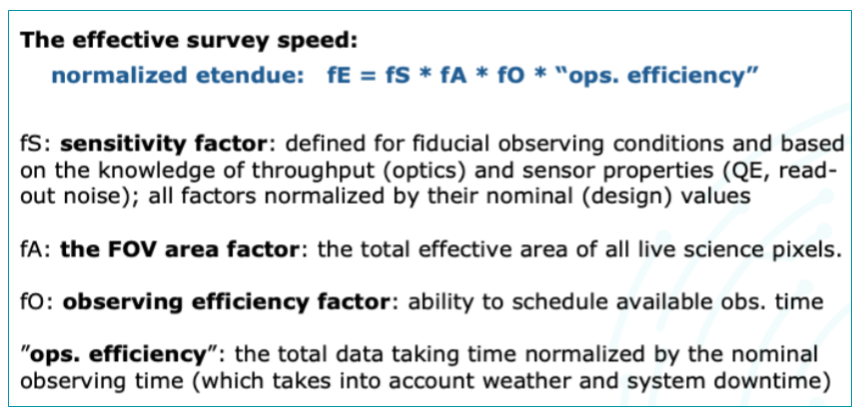
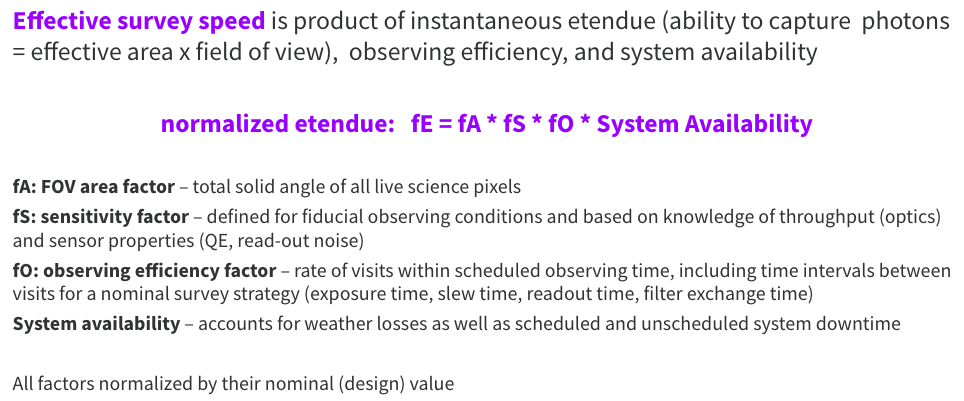
First 2.0 draft with significantly revised criteria to start LSST

diff --git a/criteria.tex b/criteria.tex
@@ -11,32 +11,64 @@ The Operations team discussed an initial set of criteria with the Science Adviso
 \small
 \centering
 \caption{Survey Start Criteria}\label{tab:criteria}
-\begin{tabular}{|p{1in}|p{4in}|p{1.0in}|}
+\begin{tabular}{|p{0.25in}|p{1in}|p{4in}|p{1.0in}|}
 \hline
-Criterium & Description& Status \\
+Item & Criterion & Description& Status \\
 \hline \hline
 
-\makecell[l]{LSSTCam\\ Maintenance} & Before the completion of SV, it is understood whether or not off TMA Camera maintenance will be needed within the first year of Operations.& TBC \\\hline  
-SRD &All science requirements that can be verified with SV data are verified or expected to be verified within 3 months of completion of SV. & TBC \\\hline
-IQ& Image quality contribution of system is better than 0.7’’. & \makecell[l]{TBC, \\preliminary \\result \\ComCam <0.4$''$}\\\hline
-Speed & Survey speed as measured on SV is > 0.5. & TBC, ComCam promising\\\hline
-\makecell[l]{Improve\\ performance} & Both IQ and speed are understood with clear paths to improvement (as needed) that can be done in parallel with on going observing.& TBC \\\hline
-Dome & The dome environment is under control at night. & TBC\\\hline
-Cadence& The first six months of survey schedule includes details of the system as currently performing.& in progress\\\hline
-Fit & Team is rested and fit. & TBC\\\hline
-Early Science&DP2 observations are completed as planned \citep{RTN-011}.& TBC \\
+1 & \makecell[l]{LSSTCam\\ Maintenance} & Before the completion of SV, it is understood whether or not off TMA Camera maintenance will be needed within the first year of Operations.& No off TMA maintenance required.  \\\hline  
+
+2 & SRD &All science requirements that can be verified with SV data are verified or expected to be verified within 3 months of completion of SV. & Status at CCR3 \\\hline
+
+3 & Dome & The dome environment is not limiting typical performance. &\makecell[l]{ Not controlled \\until after \\Handover} \\\hline
+
+4 & Calibration & All necessary calibration data products are available at the time any LSST data are obtained or can be obtained after the fact without invalidating the observed data for inclusion in the LSST. & Status at CCR3 \\\hline
+
+5& DIQ& Delivered Image quality contribution of system is better than or equal to 0.4$\arcsec$ & \makecell[l]{Currently 0.6$\arcsec$ \\system \\contribution}\\\hline
+
+6 & Normalized \'{E}tendue & Survey speed  is $>$ 0.7. & Currently 0.68 \\\hline
+
+7 & Cadence & The first six months of survey schedule as expected to be executed includes details of the system as currently performing.& In progress\\\hline
+
+8 & Early Science&DP2 observations are completed as planned \citep{RTN-011}.& Status at CCR3 \\
 
 \hline
 \end{tabular}
 \end{table}
 
-These criteria are not comprehensive with respect to LSST success. They are intended only to guide the confident commencement of the survey. We emphasize that the initial boundary condition is a successful completion of the construction project. This means the construction completeness reviews have been successfully completed and NSF and DOE have accepted the system as the one they intended to build.
+These criteria are not comprehensive with respect to LSST success. They are intended only to guide the confident commencement of the survey. The initial boundary condition is a successful completion of the construction project. This means the construction completeness reviews have been successfully completed and NSF and DOE have accepted the system as the one they intended to build.
 
-With this in mind, the most important criterion is that the system can efficiently take data. Figure~\ref{speed} shows where efficiency will be key in making progress on the survey. Beginning the scheduled observations no sooner that the system can run at 50$\%$ effective speed and with image quality (system contribution) below 0.7$''$ is acceptable as long as a clear path to improved performance exists. We assume the path to improvement will arrive at nominal effectiveness (1.0, 0.35$''$) within 6 months of the start of survey. Indeed, the ComCam campaign in Q1 FY24 showed the system contribution to image quality is likely as good 0.4$''$ already without full control over the in$-$dome environment \citep[See][ section 2.2]{SITCOMTN-149}.
+The criteria cover a range of contexts. Most look to be well in hand based on what we know about commissioning progress and what has been reported at CCR2/ORR1. Item 1 is already met. We do not expect to have to remove the camera for maintenance before we begin the survey. Item 2 is needed to ensure some key aspects of the system don't need verification before we embark on the LSST. Some long term SRD requirements need a significant amount of data to finally validate. But we can be assured data being taken are going to be valid for the LSST if the requirements that can be validated with SV data have been. This will be confirmed at CCR3. The calibration system (item 4)  is in the advanced stages of validation. By CCR3, we can be assured no outstanding calibration needs will limit the taking of images for the LSST. For item 7, we are already folding in as delivered performance into the survey simulations. We can be confident the remaining performance status can be adapted into the initial LSST cadence by the time we are ready to start. Once SV data taking is complete, we will know the content of DP2 (item 8) and be able to decide whether or not any augmentation is critical for community preparation before data release 1 \citep[DR1; see][]{RTN-011}. 
 
-The choice of when to begin the survey based on the effective survey speed (\ref{speed}) is subjective. We choose 50$\%$ as the point where accumulating survey data while working on performance improvement is most productive for the use of nighttime hours. This is with the proviso that clear paths to performance improvement are well understood.
+This leaves the "big 3," the dome environment, system contribution to DIQ, and Normalized \'{E}tendue. These are discussed next in more detail.
 
-In order that the data taken are of the highest quality possible in this context, the dome environment should be controllable to the extent dome seeing is significantly impacting the delivered IQ. The survey schedule should be updated with the current performance for the first six month period.
+\subsection{Dome Environmental Control}
+The dome is the last major subsystem to be completed. Indeed it will not be done until mid 2026. The critical aspects that are needed are to install, provide control for, and optimize the actuators for the dome louvers. There are 40 louvers, and some large fraction need to be operable (open at fractions consistent with telemetry in real time for temperatures and wind). The first actuators are installed now and may be operable before the shutdown. Still more will need to be brought on line after the handover. If the louvers limit us to worse than typical min SRD performance, we won't be able to start the LSST until they are largely deployed and in routine operation. 
 
-Finally, the community should have a significant data set to analyze while year one data are being obtained. So, the DP2 data taking should be complete and moving toward release. 
+There are large ducts that will provide for air distribution via the main air handlers inside the facility. This system should improve our ability to maintain the enclosure at closer to the required nighttime temperature during the day time. Hitting the right temperature in the environment around the telescope is critical to good IQ during the night. The ducts are necessary but not sufficient. We will also need to gain experience in forecasting the coming night's temperature to be able to use the air conditioning effectively (i.e. to set the system to hit the right target). 
 
+Further use of available temperature sensors on the telescope and in the dome will help on going analyses aimed at improving the AOS and thermal control of the optics in real time. 
+
+The total contribution to DIQ from the dome environment is modest. Including all sources of turbulence generated by the facility, the budget to contribute to the DIQ is only 0.09$\arcsec$. Clearly all systems for controlling these contributions need to be working well and reliably. The observatory will need to rely on the ability to characterize parts of the DIQ coming from this environment. Thus we will prioritize reliable operation and calibration of our DIMM, in-dome seeing monitors, as well as the atmospheric profiler on Cerro Pach\'{on}, RINGSS.  
+
+\subsection{Normalized \'{E}tendue.}
+Much of the system availability is already demonstrated to be sufficient to start the LSST, The field of view factor, fA, is excellent and stable. The sensitivity factor, fS, is also very good. This factor has the potential to help overall performance because of its dependence on delivered image quality. Getting the system contribution from 0.6 to 0.4 (coupled with site atmospheric seeing of 0.7$\arcsec$) would raise fS from 0.94 to 1.3. Apart from this, all the optics are delivered as is the focal plane. The performance of all these components is excellent and can be maintained. The observing efficiency or fO is also in good shape. The telescope dynamic performance (slew speed, acceleration, and jerk) is sufficient for the LSST planned cadence. 
+
+The TMA currently can move faster than we operate it due to the need to improve the control of dynamic loads on the glass via force actuators. However the current performance with glass is captured in the scheduler simulator and is only a modest hit to LSST. We will continue to work on improved dynamic control even as we operate for LSST. Slew and settle performance are well understood and adequate. Modest gains on fO are forecast for the rest of SV and early operations. We expect the current value to go from 0.97 to 1.05. 
+
+This leaves the System Availability, Current performance of 0.75 needs to be improved. Doing only science like observations we have reached 85$\%$ at times. We need to continue to improve on procedures and reliability of systems throughout the summit facility as we go forward. This means training for faster troubleshooting and fault recovery, making communications on the telescope system bus more reliable, improving reliability of telescope, dome, and camera functions. These have all seen marked progress as expected though out system integration, test, and commissioning. The System Availability still needs to be $\gtrsim$ 0.7 or so, a soft requirement, if the DIQ is typically delivered with 0.4$\arcsec$ contribution from the system. 
+
+The minimum Normalized \'{E}tendue is 0.7$\arcsec$ in the SRD. This level is nearly in hand. We will start the LSST consistent with this, however, the actual value will be better given the dependence on DIQ discussed next. 
+
+\subsection{DIQ}
+
+The single most important gain needed to get to the LSST start is clearly the typical DIQ. We will not start the LSST until this sustained performance reflects a system contribution of $\le$ 0.4$\arcsec$. This requires continued effort on the control of optics and the dome environment. Putting this together with the criteria above results in the region of the performance diagram we can use to gate starting the LSST as depicted in Figure~\ref{speed3}. 
+
+\begin{figure}[t]
+  \centering
+\includegraphics[width=0.85\linewidth]{speed3.png}
+\caption{Image quality versus effective survey speed or Normalized \'{E}tendue. The large orange rectangle represents the region in this space within which we can confidently start the LSST.}
+\label{speed3}
+\end{figure}
+
+\newpage

diff --git a/speed.tex b/speed.tex
@@ -1,30 +1,65 @@
 \section{System Performance}{\label{secSysperf}}
   
-Handover means that the system will have passed the NSF and DOE close out review. The as delivered system will be capable of delivering images that satisfy the science requirements as defined in SRD (\cite{LPM-17}). Following the final phase of commissioning which will include science validation (SV) observations, the state of the system will be assessed and the readiness of the system and team to begin the survey will be made. 
+Handover means that the system will have passed the NSF and DOE close out review. The as delivered system will be {\it capable} of delivering images that satisfy the science requirements as defined in SRD (\cite{LPM-17}). Following the final phase of commissioning which will include science validation (SV) observations, the state of the system will be assessed and the readiness of the system and team to begin the survey will be made. Further optimization by the Operations team will be planned as needed to ensure the system performs {\it reliably} at the needed level of capability. 
 
 Rubin has developed a high level metric to summarize the system performance with respect to survey efficiency. We need to ensure both that the system is producing science capable images and data products and that the observing is efficient. 
-If the site and system are producing appropriate image quality and the system and team are acquiring data efficiently coming out of SV, we can confidently start the LSST. In Figure~\ref{fE}, we show the system contribution to image quality (and atmospheric contribution) versus the dimensionless survey efficiency or ``speed,'' fE. 
+If the site and system are producing appropriate image quality and the system and team are acquiring data efficiently, we can confidently start the LSST. In Figure~\ref{fE}, we show the system contribution to image quality (and atmospheric contribution) versus the dimensionless survey efficiency or speed, fE. 
 
 \begin{figure}%[!ht]
   \centering
 \includegraphics[width=0.75\linewidth]{fE.png}
-\caption{Dimensionless survey efficiency factor, fE. Only ops efficiency is not known precisely at this time by data or design. The ComCam run will allow a specific determination of fE as we roll into LSSTCam commissioning. fE will be fully updated by as built system performance and ops. efficiency by the end of science validation.}
+\caption{Dimensionless survey efficiency factor, fE. System Availability is the most uncertain at this time. The current state of each factor is discussed below and the quantitative criteria for starting the LSST with respect to each factor is assessed.}
 \label{fE}
 \end{figure}
 
-All f factors are dimensionless and normalized by the corresponding SRD design values. They can be “traded against each other” as “time”.
-For example, deterioration in the mirror reflectivity can be easily translated to factor fS, and traded against time (e.g. time lost to recoating, the system “efficiency”), or against loss of sensor area (fA).
-The key point is that it is possible to define a simple measurable quantity (fE) that is an excellent numerical approximation for “LSST science goals”. Thus, we can think of the effective speed of executing the LSST (in units of the nominal speed) in terms of recognizable elements: fE ~ ”eff area” * “eff FOV” * “cadence” * “downtime”
+All f factors are dimensionless and normalized by the corresponding SRD design values. They can be traded against each other as time.
+For example, deterioration in the mirror reflectivity can be easily translated to factor fS, and traded against time (e.g. time lost to recoating, the system efficiency), or against loss of sensor area (fA).
+The key point is that it is possible to define a simple measurable quantity (fE) that is an excellent numerical approximation for LSST science goals. Thus, we can think of the effective speed of executing the LSST (in units of the nominal speed) in terms of recognizable elements:  fE $=$ effective area $\times$ effective FOV $\times$ cadence $\times$ 1-downtime.
 
-In Figure~\ref{speed}, we show the current state of our understanding of the image quality and survey speed.
+In Figure~\ref{speed}, we show the state of our understanding of the image quality and survey speed before we went on sky with LSSTCam. The red star in the diagram is the design performance corresponding to 0.35$\arcsec$ system contribution to delivered image quality (DIQ as measure in the focal plane). The white circle is a forecast based on expectations before we went on sky. We believe there is nothing limiting us reaching that circle, but the current performance is not there yet. 
 
 \begin{figure}[t]
   \centering
 \includegraphics[width=0.85\linewidth]{speed.png}
-\caption{Image quality versus effective survey speed, fE. The system contribution to the image quality is shown on the left vertical axis and the delivered image quality including the atmosphere (added in quadrature) is on the right. The LSST design is accomplished with nominal speed 1.0 and system IQ of 0.35$''$ in this diagram. Based on known subsystem performance and design, the current forecast shows the LSST will be accomplished with significant margin. Any final margin will be used to reassess the survey strategy given by \cite{PSTN-056}.}
+\caption{Image quality versus effective survey speed, fE. The system contribution to the image quality is shown on the left vertical axis and the delivered image quality including the atmosphere (added in quadrature) is on the right. The LSST design is accomplished with nominal speed 1.0 and system IQ of 0.35$\arcsec$ in this diagram. Current performance is assessed below. The white circle is representative of where we want to drive the performance, but we have not reached it yet.}
 \label{speed}
 \end{figure}
 
-There are three regions in the diagram. Clearly we want to be in the green shaded region and to the lower right in the space. The current understanding og the system as verified through subsystem verification or from the design and median seeing from the free atmosphere (0.7$''$) suggests we are in good shape. Experience with ComCam in late 2024 suggests we should be able to reach high ops efficiency. This will be quantified in the upcoming LSSTCam commissioning period.  
+There are three regions in the diagram. Clearly we want to be in the green shaded region and to the lower right in that space. The light gray space is unacceptable for science and the dark gray space covers the area where SRD minimum specifications are met for depth, area of LSST, and visits, but fails to meet the specification for minimum system contribution to the DIQ (0.4$\arcsec$). 
+
+As of CCR2/ORR1, the current values for the f factors are given in the following table. For fA, the value is set by the number of science pixels available (each with 0.2 $\times$ 0.2 arcsec$^2$ on the sky). Accounting for the active pixels meeting specifications, the factor is fully 99$\%$. The fS factor includes read noise, QE, vignetting, optical throughput (filter, lens transmission, mirror reflectance) and DIQ (so DIQ affects both axes in our diagram). The observing efficiency factor, fO, is a function of how many visits of the right exposure time can be observed given telescope performance (how fast we move and settle). Finally, system availability is defined as the open shutter science time compared to the total elapsed time working on the on sky programs. Presently, if we consider only times when we are in the science data taking mode (doing LSST like observations) we have sustained 85$\%$ availability over a week long period. If we consider other system tuning in the denominator mixed with the science SV observations, the availability is about 75$\%$. 
+
+The range of performance between what has been achieved over periods of SV and the best performance is shown in Figure~\ref{speed2}. The goal of further optimization is to use the available technical "knobs" to tune the performance and make it more reliable. These are at a high level, the active optics system (AOS) and associated wavefront analysis, thermal control of the M1M3 cell, thermal control of the top end assembly (volume around M2), and the dome ventilation (active control of louvers and installation of the air distribution ducting). All of these are under active work and progress has been made on a number of fronts not yet reflected in Figure~\ref{speed2}. Mostly because the time available on sky has been limited since CCR2/ORR1. 
+
+\begin{table}[]
+\renewcommand{\arraystretch}{2}
+\small
+\centering
+\caption{Current f factor status}\label{tab:factors}
+\begin{tabular}{cccc}
+\hline
+factor & Description& Sustained Performance & Demonstrated Capability \\
+\hline \hline
+DIQ & System Contribution (PSF FWHM)  & 0.6$\arcsec$ & 0.4$\arcsec$ \\
+fA & FoV area factor & 0.99 & 0.99 \\
+fS & Sensitivity factor & 0.94 & 1.30 \\
+fO & Observing Efficiency & 0.97 & 1.05 \\
+SA & System Availability (up and taking data) & 0.75 & 0.85 \\
+fE & Normalized \'{E}tendue & 0.68 & 1.15 \\
+
+\hline
+\end{tabular}
+\end{table}
+
+\begin{figure}[t]
+  \centering
+\includegraphics[width=0.85\linewidth]{speed2.png}
+\caption{Image quality versus effective survey speed, fE with performance presented at CCR2-ORR1. Upper left of the orange performance region is sustained over week long periods in SV. The best performance (capability) is represented by the lower right vertex of the region. This forecast to be the typical performance by CC3. This may or may not happen depending on teh progress made in the remaining month of on sky work. }
+\label{speed2}
+\end{figure}
+
+The current capability and reliability of the system as described in Table~\ref{tab:factors} and Figure~\ref{speed2} form the basis of optimization criteria described in the next section that the Operations team will use to gate starting the LSST. 
+
+\newpage
 
 

diff --git a/intro.tex b/intro.tex
@@ -1,10 +1,9 @@
 \section{Introduction}
 
-Rubin Observatory will be completed in 2025, perhaps as early as September. In practice this means the Operations team \cite[see][]{RDO-018} will assume responsibility of the Observatory and regular operations: running the facility on Cerro Pach\'{o}n each night, transferring data over the long haul network to the USDF, processing and arching the data, etc. 
+Rubin Observatory will be substantially completed by October 2025. In practice this means the Operations team \cite[see][]{RDO-018} will assume responsibility of the Observatory and regular operations: running the facility on Cerro Pach\'{o}n each night, transferring data over the long haul network to the USDF, processing and arching the data, etc. 
 
-Depending on the reliability of the overall system at the time of handover, it may be necessary to improve processes or sub-system reliability in advance of formally beginning the execution of the the 10 year Legacy Survey of Space and Time. The survey strategy and it's associated cadence in the 10 year period (allowing for modest assumed degradation in year 1) are detailed by the SCOC \cite[]{PSTN-056}. 
+Depending on the reliability of the overall system at the time of handover, it may be necessary to improve processes or sub-system reliability in advance of formally beginning the execution of the the 10 year Legacy Survey of Space and Time. The survey strategy and it's associated cadence in the 10 year period (currently allowing for modest assumed degradation in year 1) are detailed by the Survey Cadence Optimization Committee \cite[SCOC,][]{PSTN-056}. 
 
 In this technote, we define the criteria that the Operations team, in consultation with operations partners, the post-handover Construction team, the Rubin Management Board, funding agencies, and the science advisory committee, will use to guide the decision to begin the LSST. 
 
-The LSST will begin after the handover to Operations. Currently this is forecast near the beginning of FY26, specifically October 25th, 2025. Formal transition of construction to staff into Operations from SLAC commissioning and AURA (into NOIRLab) will be on October 1, 2025. All construction staff can currently charge aligned activities to operations as appropriate. See section~\ref{secSched} below for the current schedule.  
-
+The LSST will begin after the handover to Operations. The handover will happen on October 25th, 2025. Formal transition of construction to staff into Operations from SLAC commissioning and AURA (into NOIRLab) will be on October 1, 2025. See section~\ref{secSched} below for the current schedule.  

diff --git a/RTN-093.tex b/RTN-093.tex
@@ -35,7 +35,7 @@ Robert Blum, \v{Z}eljko Ivezi\'{c}, Phil Marshall
 % \setDocCurator{The Curator of this Document}
 
 \setDocAbstract{%
-This document concisely captures the criteria that must be satisfied to begin regular survey operations for the Legacy Survey of Space and Time (i.e. to being execution of the planned 10 year survey strategy currently documented in pstn-056). It is expected that the survey will start in late 2025 1-2 months after the beginning of the formal Operations at the completion of construction.
+This document concisely captures the criteria that must be satisfied to begin regular survey operations for the Legacy Survey of Space and Time (i.e. to begin execution of the planned 10 year survey strategy currently documented in PSTN-056). It is expected that the survey will start in late 2025 1-2 months after the beginning of the formal Operations phase at the completion of construction.
 }
 
 % Change history defined here.
@@ -44,6 +44,7 @@ This document concisely captures the criteria that must be satisfied to begin re
 % See LPM-51 for version number policy.
 \setDocChangeRecord{%
   \addtohist{1}{2025-02-28}{01.0}{Robert Blum}
+  \addtohist{1}{2025-09-01}{02.0 Criteria and Schedule updates}{Robert Blum}
 }
 \graphicspath{{./}{figures/}}
 \usepackage{makecell}

diff --git a/schedule.tex b/schedule.tex
@@ -1,7 +1,5 @@
 \section{Schedule}{\label{secSched}}
 
-
-
 The Project and Operations teams will complete several reviews as described below in order to closeout the construction phase, handover to Operations, and demonstrate readiness to begin the LSST. The first of these, Construction Completeness Review (CCR) 1, was held in October, 2024. CCR2 took place in July, 2025. Concurrent to CCR2, the Operations team went through the Operations Readiness Review (ORR) 1. Both reviews were run in parallel with the same NSF--DOE review panel convened to review and report out for the Observatory as a whole. A modest set of recommendations were made and Construction and Operations are addressing them. 
 
 Construction Closeout and Operations Readiness Reviews:
